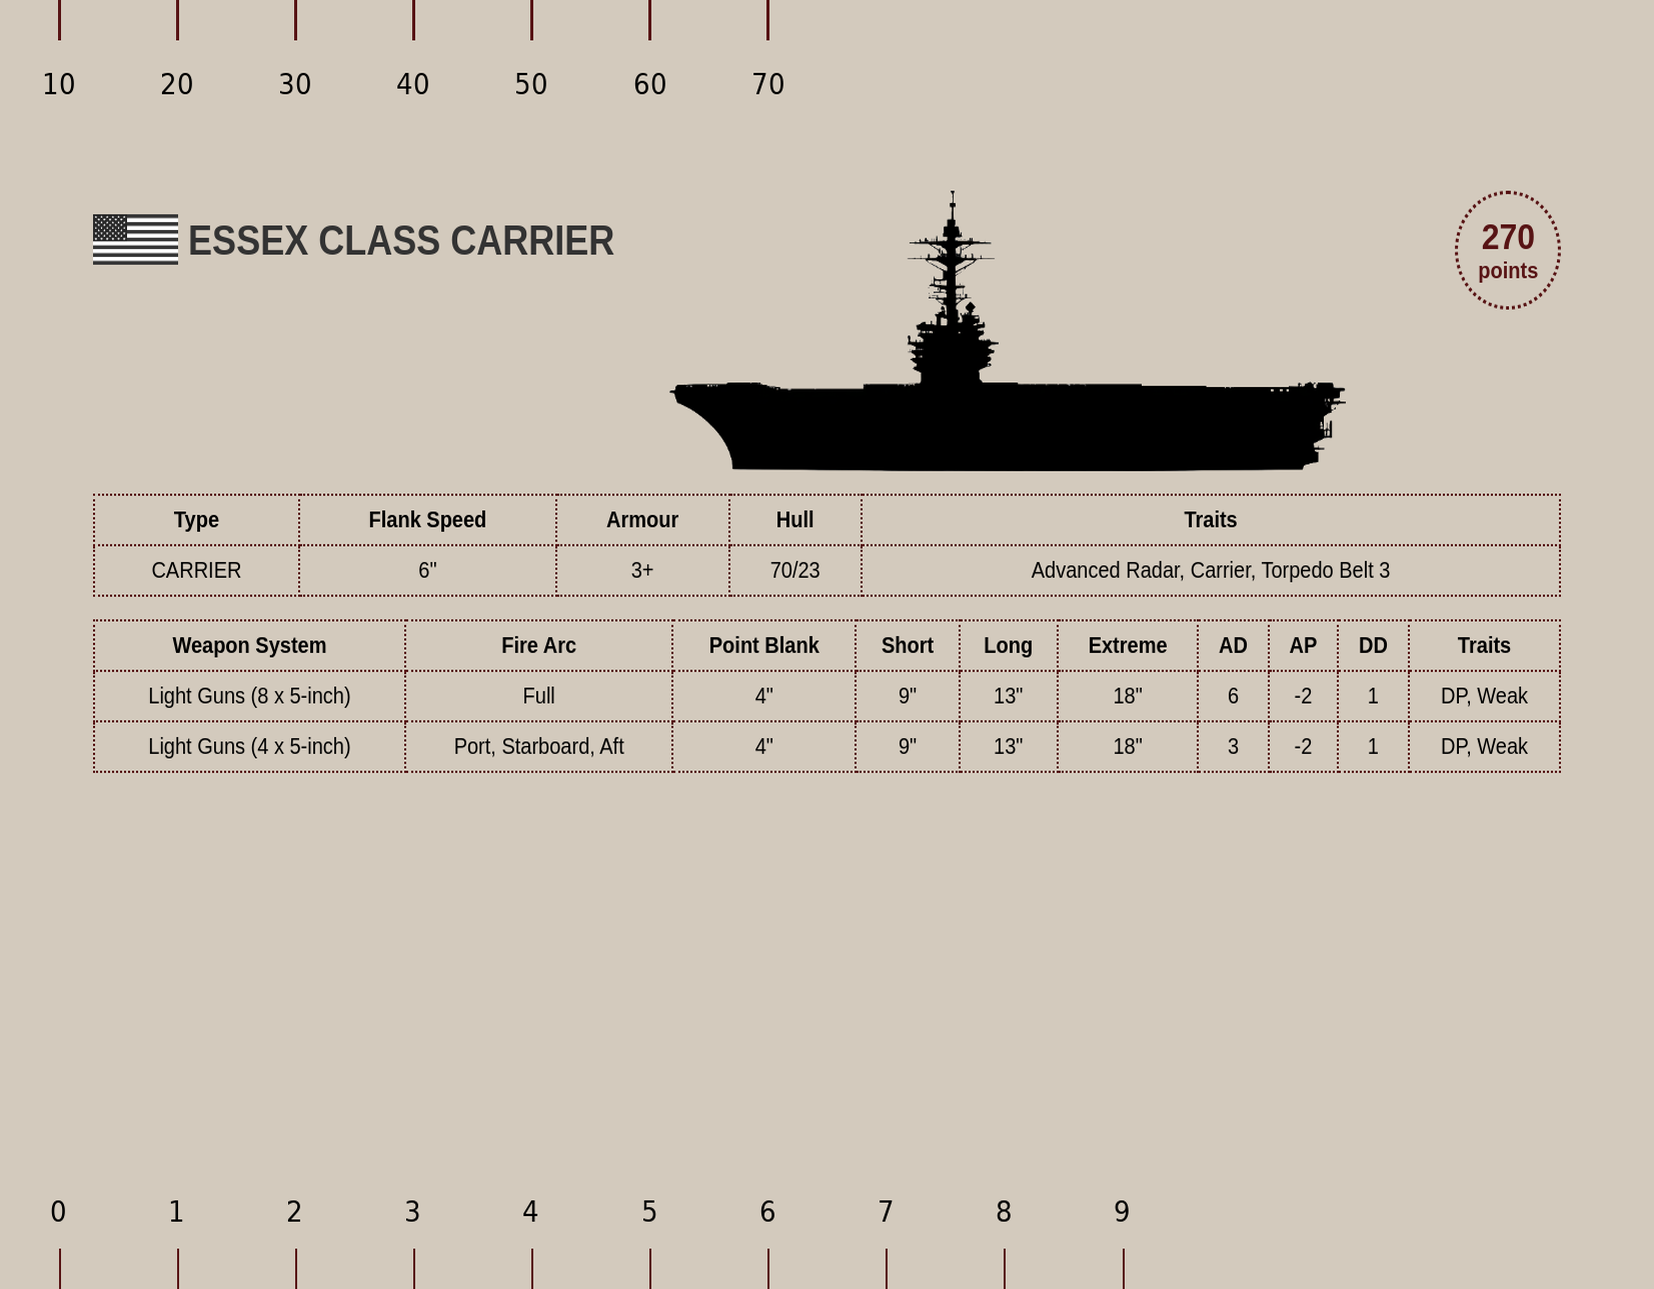
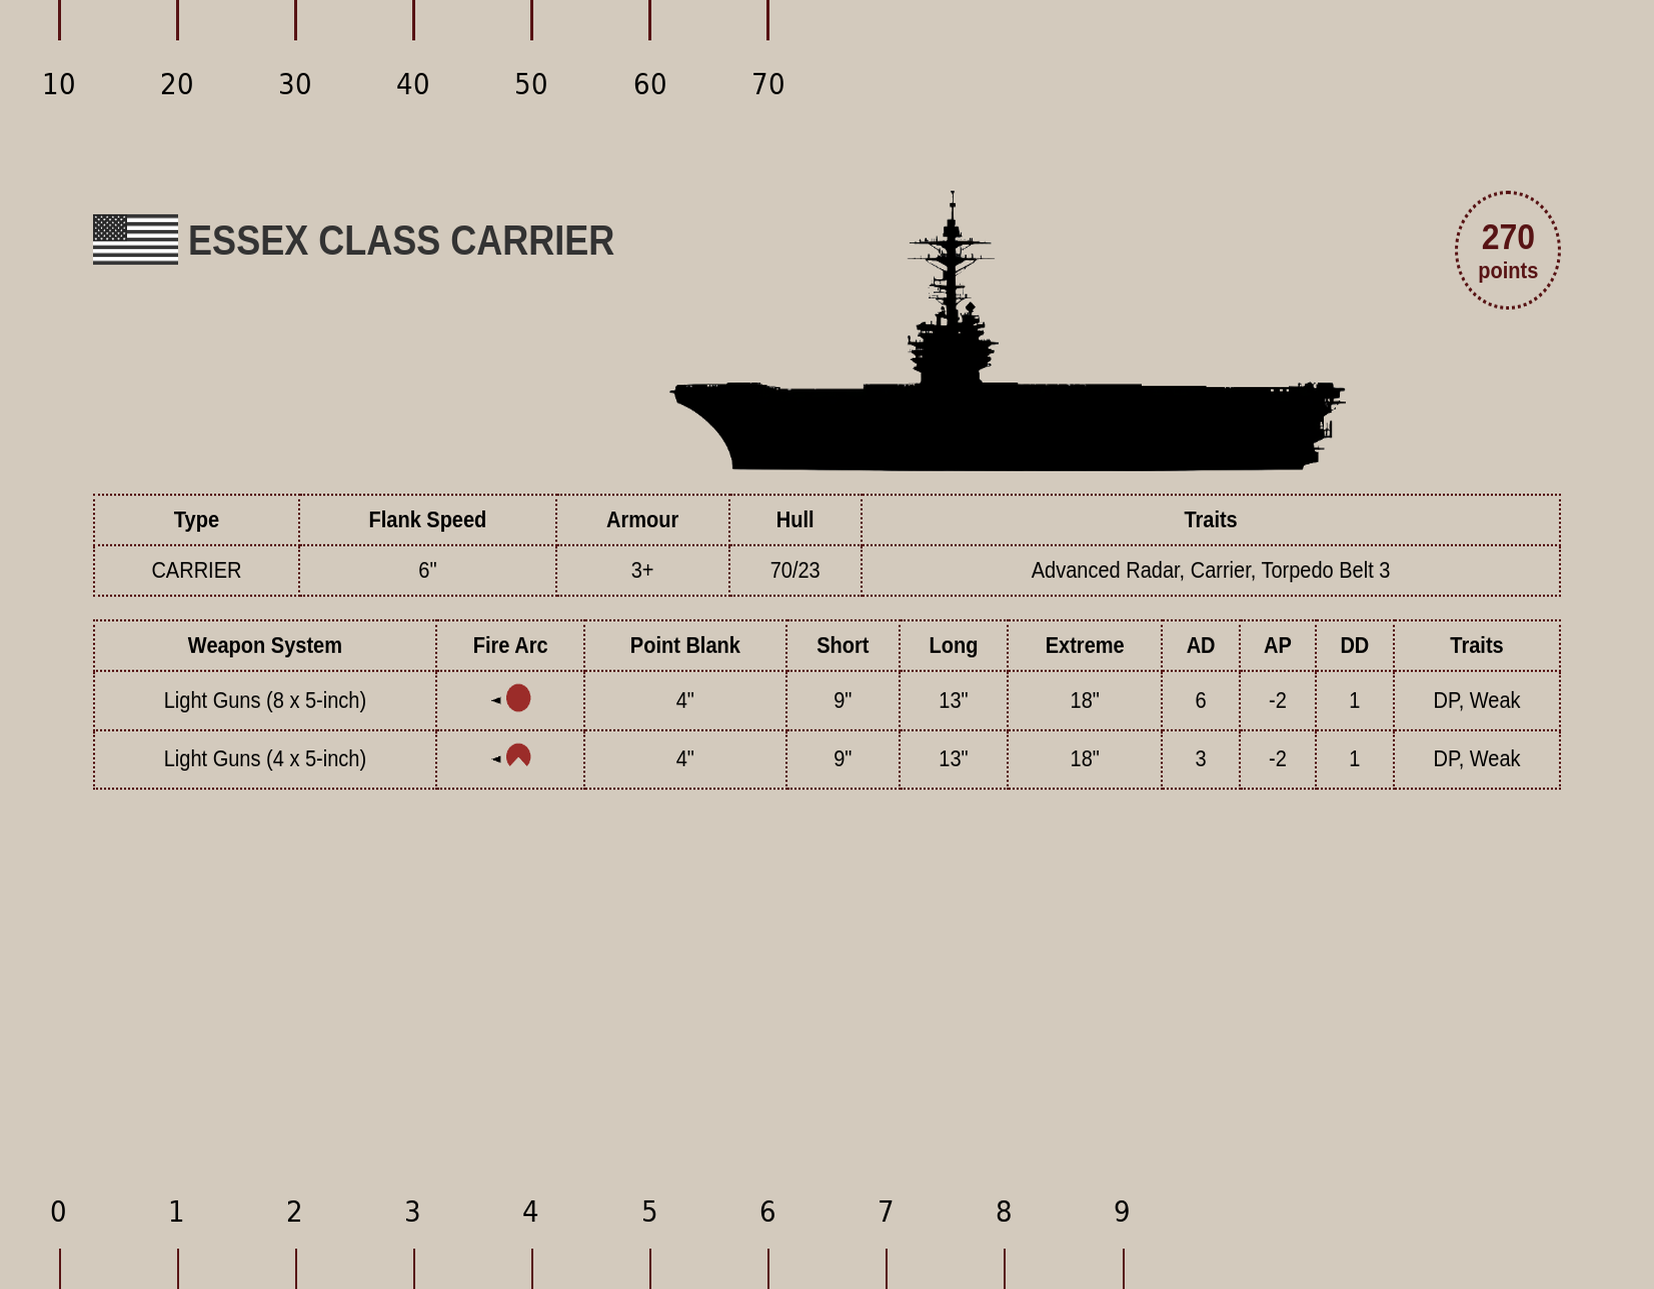
⚓

Changed region(s): [[0.0925, 0.4655, 0.925, 0.6206]]

diff --git a/generate.py b/generate.py
@@ -5,7 +5,7 @@ from selenium.webdriver.common.by import By
 from selenium.webdriver.support.ui import WebDriverWait
 from selenium.webdriver.support import expected_conditions as EC
 from string import Template
-import os 
+import os
 from PIL import Image, ImageDraw, ImageFont
 
 # Input CSV and template paths
@@ -13,6 +13,7 @@ ships_csv = "ships.csv"
 weapons_csv = "weapon_systems.csv"
 template_file = "shipcard.html"
 output_dir = "output_images"
+fire_arcs_dir = "fire_arcs"
 os.makedirs(output_dir, exist_ok=True)
 
 # Load the CSV files
@@ -29,12 +30,39 @@ options.add_argument("--headless")
 options.add_argument("--disable-gpu")
 driver = webdriver.Chrome(options=options)
 
+def standardize_fire_arc(fire_arc):
+    """
+    Standardize fire arc input by trimming whitespace,
+    converting to lowercase, and sorting components for consistency.
+    """
+    if pd.isna(fire_arc):
+        return None
+    # Split, standardize, and sort
+    return "_".join(sorted(part.strip().capitalize() for part in fire_arc.split(",")))
+
+def get_fire_arc_image(fire_arc):
+    """
+    Generate or select the correct fire arc image based on the fire_arc input.
+    """
+    # Standardize the input
+    standardized_fire_arc = standardize_fire_arc(fire_arc)
+    if not standardized_fire_arc:
+        return ""
+
+    # Generate file name based on standardized arcs
+    file_name = standardized_fire_arc.lower() + ".png"
+    fire_arc_path = os.path.join(fire_arcs_dir, file_name)
+
+    # Check if the image exists
+    if os.path.exists(fire_arc_path):
+        return f'<img src="{fire_arc_path}" alt="{fire_arc}" width="45" />'
+    else:
+        print(f"Warning: Fire arc image {fire_arc_path} not found for '{fire_arc}'")
+        return ""
+
 def draw_vertical_lines(image_path, num_top_lines):
     """
     Draw vertical lines at the top and bottom of the image based on the 300 DPI setting.
-    The number of top lines is dynamic based on the ship's hull value.
-    Add numbers at the end of those lines with a slight gap.
-    Ensure the final image dimensions match the target size.
     """
     # Target dimensions (in pixels at 300 DPI)
     target_width = 1654
@@ -103,11 +131,14 @@ for _, ship in ships.iterrows():
         # Ensure 'traits' is handled correctly
         traits = weapon['traits'] if pd.notna(weapon['traits']) else "-"
 
+        # Get the fire arc image HTML
+        fire_arc_img = get_fire_arc_image(weapon["fire_arc"])
+
         # Generate the row
         weapon_rows_html += f"""
         <tr>
             <td>{weapon['weapon_system']}</td>
-            <td>{weapon['fire_arc']}</td>
+            <td>{fire_arc_img}</td>
             <td>{weapon['point_blank']}</td>
             <td>{weapon['short']}</td>
             <td>{weapon['long']}</td>
@@ -119,18 +150,13 @@ for _, ship in ships.iterrows():
         </tr>
         """
 
-    # Extract the first number from the hull (e.g., "72/24" -> 7)
-    num_top_lines = int(str(ship["hull"]).split("/")[0][0])
-
     # Validate and handle missing ship/nation images
     ship_image_html = ""
     if not pd.isna(ship["ship_image"]) and isinstance(ship["ship_image"], str) and os.path.exists("ship_images/" + ship["ship_image"]):
-        print("Ship image found:", ship["ship_image"])
         ship_image_html = f'<img class="ship-image" src="ship_images/{ship["ship_image"]}" alt="{ship["ship_name"]}" />'
 
     nation_html = ""
     if not pd.isna(ship["nation"]) and isinstance(ship["nation"], str) and os.path.exists("flags/" + ship["nation"]):
-        print("Nation image found:", ship["nation"])
         nation_html = f'<img class="flag" src="flags/{ship["nation"]}" alt="Flag" />'
 
     # Replace placeholders in the template with ship and weapon data
@@ -139,8 +165,8 @@ for _, ship in ships.iterrows():
         ship_name=ship["ship_name"].upper(),
         ship_type=ship["ship_type"].upper(),
         points=ship["points"],
-        ship_image_html=ship_image_html,  # Insert the generated ship image HTML
-        nation_html=nation_html,  # Insert the generated nation flag HTML
+        ship_image_html=ship_image_html,
+        nation_html=nation_html,
         flank_speed=ship["flank_speed"],
         armour=ship["armour"],
         hull=ship["hull"],
@@ -155,7 +181,7 @@ for _, ship in ships.iterrows():
 
     # Open the temporary HTML file in the browser
     driver.get(f"file://{os.path.abspath(temp_html_path)}?cache-bust={os.urandom(8).hex()}")
-
+    
     # Inject CSS to hide scrollbars
     driver.execute_script("""
         document.body.style.margin = '0';
@@ -181,12 +207,8 @@ for _, ship in ships.iterrows():
     print(f"Saving screenshot to: {screenshot_path}")
     driver.save_screenshot(screenshot_path)
 
-    # Save the image with 300 DPI and draw vertical lines
-    with Image.open(screenshot_path) as img:
-        img.save(screenshot_path, dpi=(300, 300))
-
     # Add vertical lines after ensuring the image has been saved at 300 DPI
-    draw_vertical_lines(screenshot_path, num_top_lines)
+    draw_vertical_lines(screenshot_path, int(str(ship["hull"]).split("/")[0][0]))
 
     # Clean up the temporary HTML file
     os.remove(temp_html_path)

diff --git a/createArcs.py b/createArcs.py
@@ -1,0 +1,90 @@
+import os
+from PIL import Image, ImageDraw
+
+# Define fire arc combinations
+fire_arcs = [
+    "Fore",
+    "Fore, Port",
+    "Fore, Port, Starboard",
+    "Fore, Starboard",
+    "Port",
+    "Fore, Aft, Port, Starboard",
+    "Aft",
+    "Aft, Port",
+    "Aft, Port, Starboard",
+    "Aft, Starboard",
+    "Starboard"
+]
+
+output_dir = "fire_arcs"
+os.makedirs(output_dir, exist_ok=True)
+
+def standardize_fire_arc(fire_arc):
+    """
+    Standardize fire arc input by trimming whitespace,
+    converting to lowercase, and sorting components for consistency.
+    """
+    if not fire_arc:
+        return None
+    # Split, standardize, and sort
+    return "_".join(sorted(part.strip().lower() for part in fire_arc.split(",")))
+
+def create_arc_image(arcs, output_path):
+    """
+    Create an arc image based on the given arcs.
+    """
+    # Image dimensions
+    width, height = 100, 85
+    center = (width // 2, height // 2)
+    radius = 40
+
+    # Arc angles
+    arc_angles = {
+        "Fore": (45, 135),
+        "Port": (135, 225),
+        "Aft": (225, 315),
+        "Starboard": (315, 45)
+    }
+
+    # Create a blank image
+    img = Image.new("RGBA", (width + 50, height), (255, 255, 255, 0)) # +50 for the arrow
+    draw = ImageDraw.Draw(img)
+
+    # # Draw a very subtle center circle
+    # center_radius = 5
+    # draw.ellipse(
+    #     [center[0] - center_radius, center[1] - center_radius,
+    #      center[0] + center_radius, center[1] + center_radius],
+    #     outline=(0, 0, 0, 50),
+    #     width=1
+    # )
+
+    # Draw the arcs
+    for arc in arcs:
+        if arc in arc_angles:
+            start, end = arc_angles[arc]
+            draw.pieslice(
+                [center[0] - radius + 50, center[1] - radius, # +50 for the arrow
+                 center[0] + radius + 50, center[1] + radius], # +50 for the arrow
+                start=start, end=end,
+                fill=(139, 0, 0, 200)  # Dark red fill
+            )
+
+    arrow_base_y = 100 // 2
+    arrow_coords = [
+        (10, arrow_base_y),  # Arrow tip
+        (40, arrow_base_y - 10),  # Upper base
+        (40, arrow_base_y + 10)  # Lower base
+    ]
+    draw.polygon(arrow_coords, fill="black")
+
+    # Save the image
+    img.save(output_path)
+
+# Generate images for all fire arc combinations
+for fire_arc in fire_arcs:
+    standardized_name = standardize_fire_arc(fire_arc)
+    output_path = os.path.join(output_dir, f"{standardized_name}.png")
+    arcs = fire_arc.split(", ")
+    create_arc_image(arcs, output_path)
+    print(f"Created: {output_path}")
